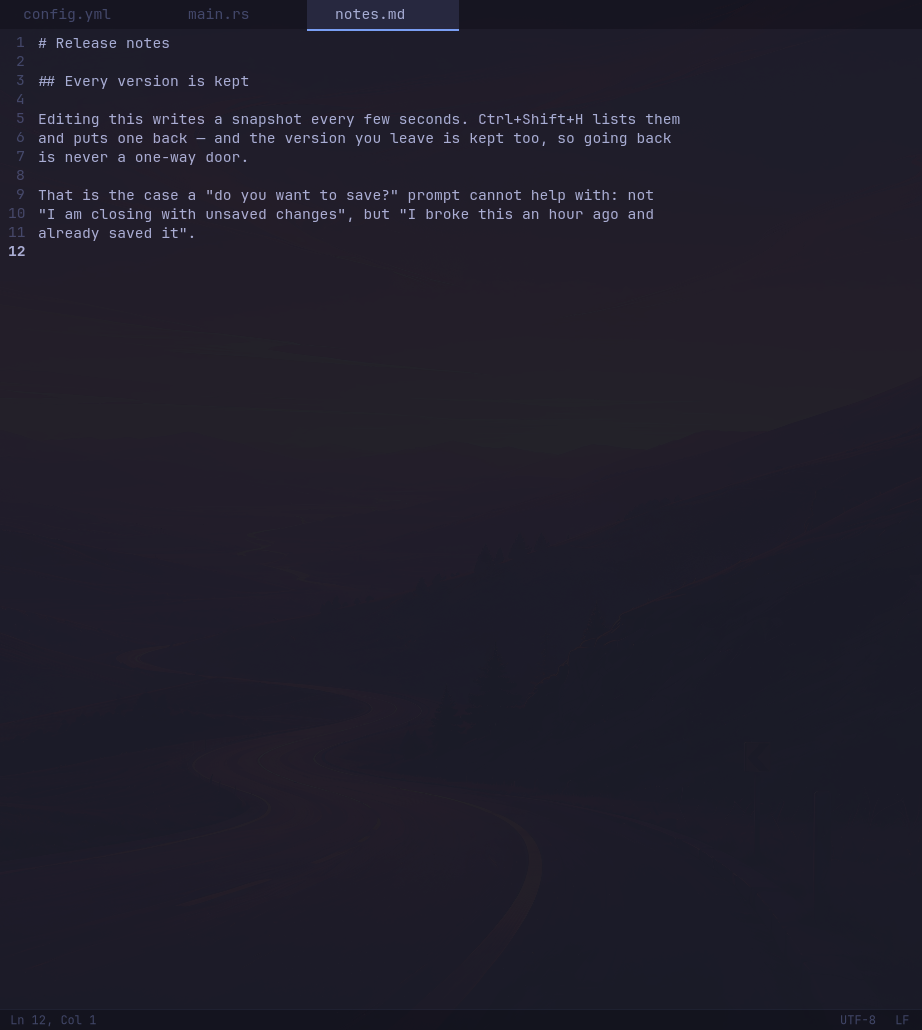
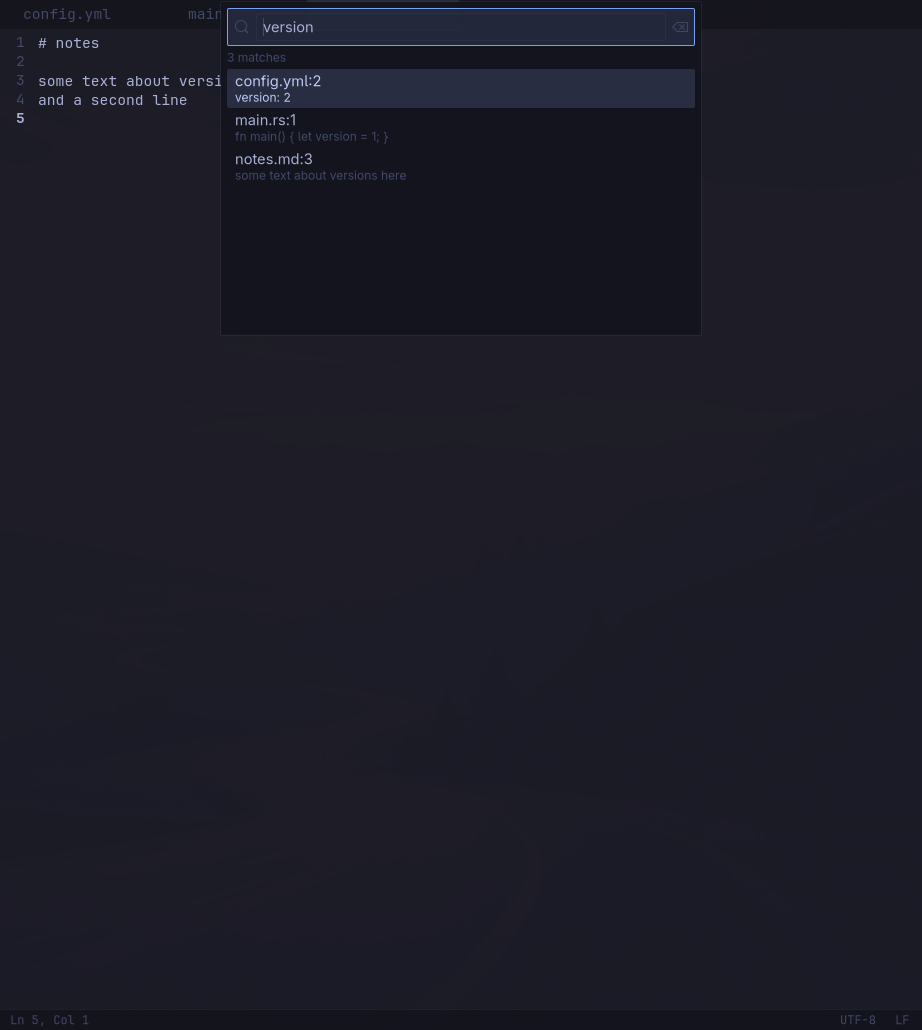
Make the popovers look like the editor, and ship a working Flatpak
The menus looked like stock GNOME dropped into an editor that looks nothing
like GNOME. The cause: a GtkPopover is not one widget. It has an internal
`contents` node carrying the theme's own background and rounded corners, and
the entries and lists inside keep the theme's styling too. Styling only the
class we add left the frame ours and everything inside Adwaita's. They are now
styled by node, so the palette reaches all of it.

The Flatpak builds, installs and runs. Three things had to be found by
building it rather than by reasoning about it:

The runtime version is not a free choice. GNOME 47 pairs with freedesktop
24.08, whose rust-stable extension carries Rust 1.89 — below the 1.92 the
gtk-rs crates need — and the build fails there. GNOME 51 pairs with 26.08 and
1.98, and carries GTK 4.24 and GtkSourceView 5.21.

The vendored crates need the real checksum from Cargo.lock in their
.cargo-checksum.json. Writing null instead makes cargo refuse them: it reads
null as a source that cannot do checksums replacing one that can.

And the SVG icon is not exported. Flatpak validates icons through gdk-pixbuf,
librsvg has dropped its gdk-pixbuf loader, so an SVG is rejected as "Format
not recognized" at the last step of the build — even though GTK4 renders the
same file fine, because it uses librsvg directly. PNGs are exported instead;
a native install still ships the SVG.

Changed region(s): [[0.0304, 0.0, 0.7592, 0.2485], [0.0, 0.2175, 0.0304, 0.2485]]

diff --git a/src/theme/css.rs b/src/theme/css.rs
@@ -236,21 +236,79 @@ window.f3note scrollbar slider {{
 }}
 window.f3note scrollbar slider:hover {{ background-color: {muted}; }}
 
-/* Ctrl+P switcher. A list, not a dialog. */
-window.f3note .f3note-switcher {{
+/* The popovers: Ctrl+P, go to line, sessions, history, status menus.
+ *
+ * These are styled by node rather than only by the class we add, because a
+ * GtkPopover is not one widget. It has an internal `contents` node that
+ * carries the theme's own background and rounded corners, and the entries and
+ * lists inside keep the theme's styling too. Styling only the outer class
+ * left the frame ours and everything inside looking like stock Adwaita —
+ * a GNOME dialog dropped into an editor that looks nothing like GNOME. */
+popover.f3note-switcher {{
+  background: none;
+}}
+popover.f3note-switcher > contents {{
   background-color: {bar_bg};
   border: 1px solid {hairline};
+  border-radius: 2px;
+  box-shadow: none;
+  padding: 6px;
+  color: {fg};
 }}
-window.f3note .f3note-switcher row {{
+popover.f3note-switcher > arrow {{
+  background: none;
+  border: none;
+}}
+
+popover.f3note-switcher entry,
+popover.f3note-switcher entry > text {{
+  background-color: {lighter_solid};
+  color: {fg};
+  border: 1px solid {hairline};
+  border-radius: 2px;
+  box-shadow: none;
+  outline: none;
+  min-height: 0;
+  padding: 4px 6px;
+}}
+popover.f3note-switcher entry:focus,
+popover.f3note-switcher entry:focus-within {{
+  border-color: {accent};
+  box-shadow: none;
+  outline: none;
+}}
+popover.f3note-switcher entry image {{ color: {muted}; }}
+
+popover.f3note-switcher list,
+popover.f3note-switcher listview,
+popover.f3note-switcher scrolledwindow {{
+  background-color: transparent;
+  border: none;
+}}
+popover.f3note-switcher row {{
   background-color: transparent;
   color: {fg};
-  padding: 3px 10px;
+  border-radius: 2px;
+  padding: 3px 8px;
+  min-height: 0;
 }}
-window.f3note .f3note-switcher row:selected {{
+popover.f3note-switcher row:hover {{ background-color: {hover}; }}
+popover.f3note-switcher row:selected {{
   background-color: {selection};
   color: {sel_fg};
 }}
-window.f3note .f3note-switcher row label.path {{ color: {muted}; }}
+popover.f3note-switcher row:selected label {{ color: {sel_fg}; }}
+popover.f3note-switcher label.path {{ color: {muted}; font-size: {small}pt; }}
+popover.f3note-switcher button {{
+  background: none;
+  border: none;
+  box-shadow: none;
+  color: {muted};
+  min-height: 0;
+  min-width: 0;
+  padding: 0 4px;
+}}
+popover.f3note-switcher button:hover {{ color: {red}; }}
 ",
         family = a.font.family,
         size = a.font.size,

diff --git a/scripts/cargo-sources.py b/scripts/cargo-sources.py
@@ -39,12 +39,18 @@ def main() -> int:
                 "dest": f"cargo/vendor/{name}-{version}",
             }
         )
-        # Cargo expects a checksum file beside each vendored crate. "package"
-        # being null tells it not to re-verify the archive it never saw.
+        # Cargo expects a checksum file beside each vendored crate, and the
+        # "package" field has to carry the same hash the lock file records.
+        # Writing null there instead makes cargo refuse the crate with
+        # "checksum could not be calculated, but a checksum is listed in the
+        # existing lock file" — it reads null as a source that cannot do
+        # checksums replacing one that can. The files map stays empty because
+        # flatpak-builder unpacked the archive, so there is nothing to compare
+        # file by file.
         vendored.append(
             {
                 "type": "inline",
-                "contents": json.dumps({"package": None, "files": {}}, indent=2),
+                "contents": json.dumps({"package": checksum, "files": {}}, indent=2),
                 "dest": f"cargo/vendor/{name}-{version}",
                 "dest-filename": ".cargo-checksum.json",
             }
